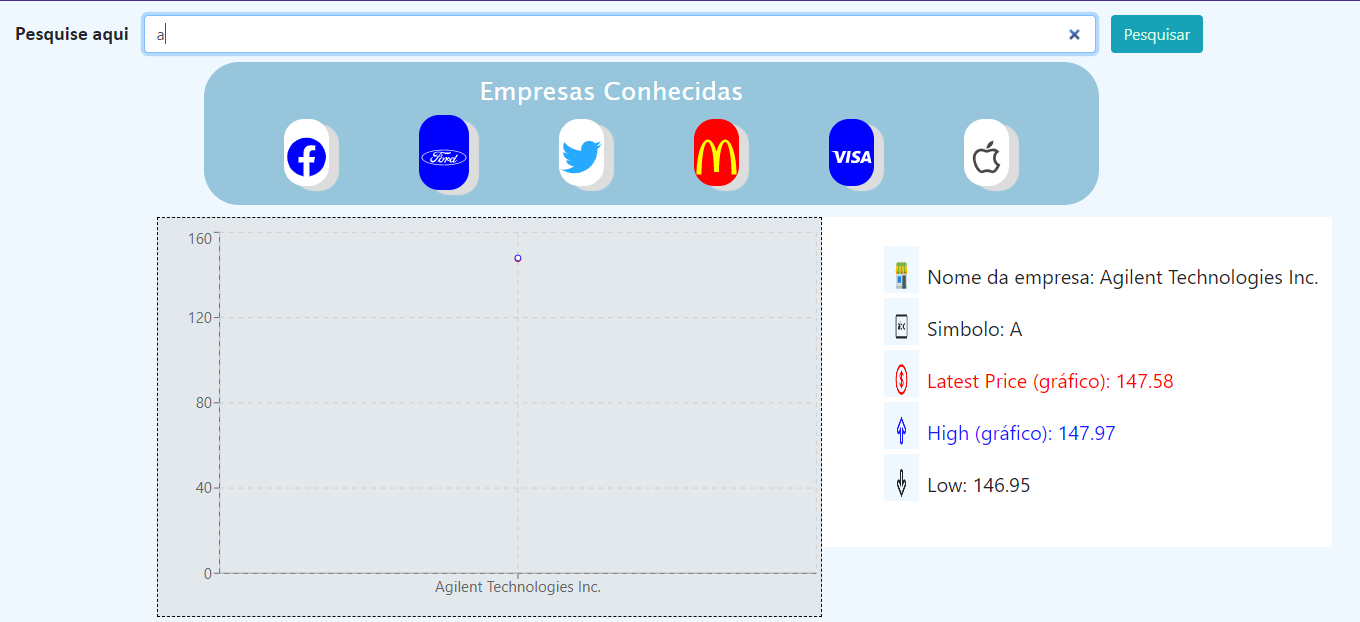
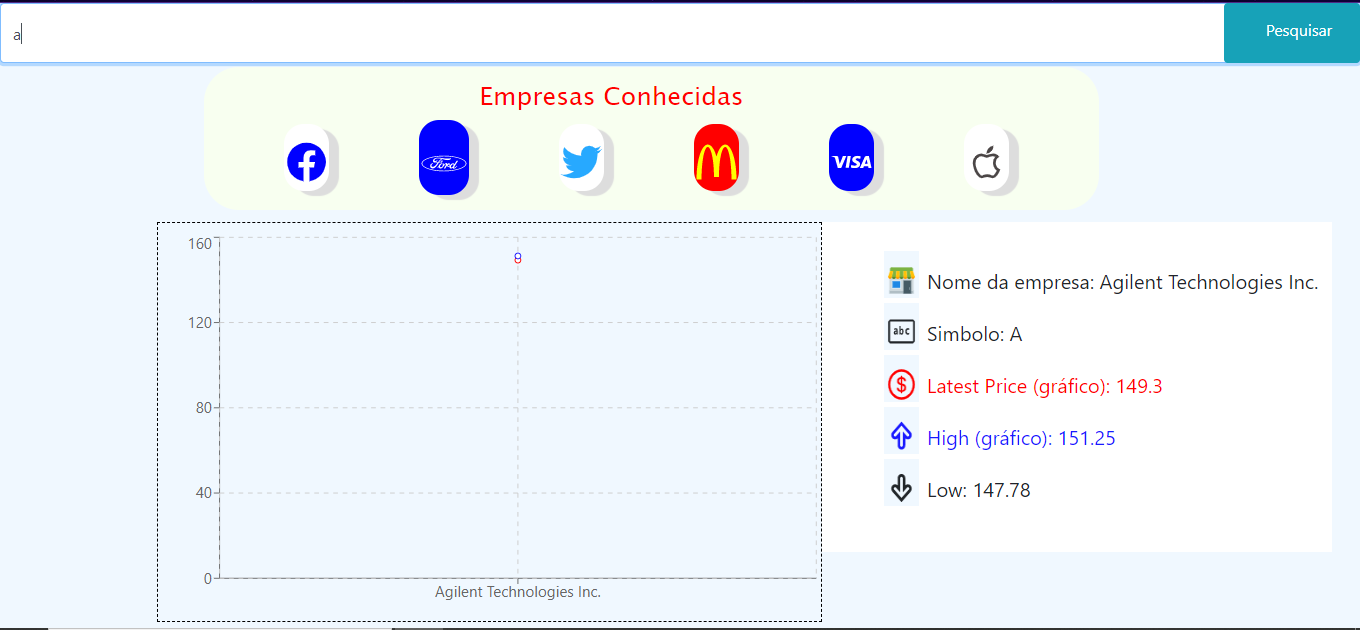
terminando a frente da pagina

diff --git a/app/public/style-animate.css b/app/public/style-animate.css
@@ -1,7 +1,3 @@
-.btn-search {
-    animation: changColor ease-in-out 2s infinite;
-}
-
 .btn-search:hover {
     transition: ease-in-out 0.5s;
     font-family: fantasy;
@@ -9,71 +5,50 @@
     animation: none;
 }
 
-@keyframes changColor {
-    from{
-        color: #fff;
-    }
-    20%{
-        color: rgb(10, 243, 80);
-    }
-    40%{
-        color: rgb(239, 243, 2);
-    }
-    60%{
-        color: rgb(243, 10, 10);
-    }
-    80%{
-        color: rgb(0, 229, 245);
-    }
-    to{
-        color: rgb(177, 10, 243); 
-    }
+.container-exemplo:hover {
+    background-color: rgba(7, 118, 165, 0.384);
+    color: #fff;
 }
 
 .icone-exemplo:hover {
     cursor: pointer;
+    transition: ease-in-out 0.3s;
 }
 
 .face:hover  {
     background-color: blue;
     color: #fff;
     transform: translateY(-10px);
-    transition: ease-in-out 0.3s;
 }
 
 .ford:hover  {
     background-color: #fff;
     color: blue;
     transform: translateY(-10px);
-    transition: ease-in-out 0.3s;
 }
 
 .twitter:hover {
     background-color:rgba(0, 153, 255, 0.822);
     color: #fff;
     transform: translateY(-10px);
-    transition: ease-in-out 0.3s;
 }
 
 .mcdonald:hover  {
     background-color: yellow;
     color: #f00;
     transform: translateY(-10px);
-    transition: ease-in-out 0.3s;
 }
 
 .visa:hover  {
     background-color: #fff;
     color: blue;
     transform: translateY(-10px);
-    transition: ease-in-out 0.3s;
 }
 
 .apple:hover  {
     background-color: rgb(75, 70, 70);
     color: #fff;
     transform: translateY(-10px);
-    transition: ease-in-out 0.3s;
 }
 
 .animar {

diff --git a/app/public/style.css b/app/public/style.css
@@ -2,24 +2,27 @@ body{
     background-color: aliceblue;
 }
 
-.form-search {
-    margin-top: 1%;
-}
-
 .ipt-search {
-    width: 70%;
+    width: 100%;
     display: inline;
-    margin-right: 15px;
-}
-
-.pesquise-lb {
-    font-family: 'Gill Sans', 'Gill Sans MT', Calibri, 'Trebuchet MS', sans-serif;
-    margin: auto 15px;
-    font-size: 20px;
+    height: 60px;
+    background-color: #2acece2d;
+    color: black;
 }
 
 .btn-search {
-    margin-bottom: 5px;
+    position: fixed;
+    top: 0;
+    right: 0;
+    height: 1%;
+    height: 60px;
+    width: 10%;
+    padding-left: 3%;
+}
+
+.btn-search-text {
+    margin-top: 10%;
+    margin-right: 23%;
 }
 
 .recharts-wrapper{
@@ -29,9 +32,9 @@ body{
 }
 
 .recharts-surface {
-    background-color: rgba(204, 204, 204, 0.37);
     border: 1px dashed black;
     margin-left: 5%;
+    
 }
 
 .info-company {
@@ -62,7 +65,7 @@ body{
 }
 
 .container-exemplo {
-    background-color: rgba(7, 118, 165, 0.384);
+    background-color: #f8fff0;
     padding: 15px 80px 15px 0;
     margin-left: 15%;
     display: inline-block;
@@ -79,7 +82,7 @@ body{
     display: block;
     text-align: center;
     font-family:'Lucida Sans', 'Lucida Sans Regular', 'Lucida Grande', 'Lucida Sans Unicode', Geneva, Verdana, sans-serif;
-    color: #fff;
+    color: rgb(255, 0, 0);
     font-size: 25px;
 }
 
@@ -100,9 +103,6 @@ body{
 .ford {
     color: #fff;
     background-color: blue;
-}
-
-.ford {
     font-size: 50px;
 }
 

diff --git a/app/src/componentes/HeaderSearch.js b/app/src/componentes/HeaderSearch.js
@@ -3,7 +3,6 @@ import { connect } from 'react-redux'
 
 import { changeCompany } from './../store/actions/TrocaEmpresa'
 
-
 const HeaderSearch = ({changeCompany}) => {
     
     //capturando o simbolo da empresa com um hook
@@ -24,9 +23,19 @@ const HeaderSearch = ({changeCompany}) => {
     return (
         <div className="form-group form-search">
             <form onSubmit={ SetCompanyInformation }>
-                <label className="pesquise-lb"><strong>Pesquise aqui</strong></label>
-                <input type="search" onChange={ GetInputValue } autoComplete="off" className="form-control ipt-search" id="exampleFormControlInput1" placeholder="Ex: aapl" />
-                <button type="submit" className="btn btn-info btn-search">Pesquisar</button>
+                <input 
+                    type="search" 
+                    onChange={ GetInputValue } 
+                    autoComplete="off" 
+                    className="form-control ipt-search" 
+                    id="exampleFormControlInput1" 
+                    placeholder="Ex: aapl" 
+                />
+                <button type="submit" className="btn btn-info btn-search">                   
+                    <p className='btn-search-text'>                       
+                        Pesquisar
+                    </p>                   
+                </button>
             </form>
         </div>
     )
